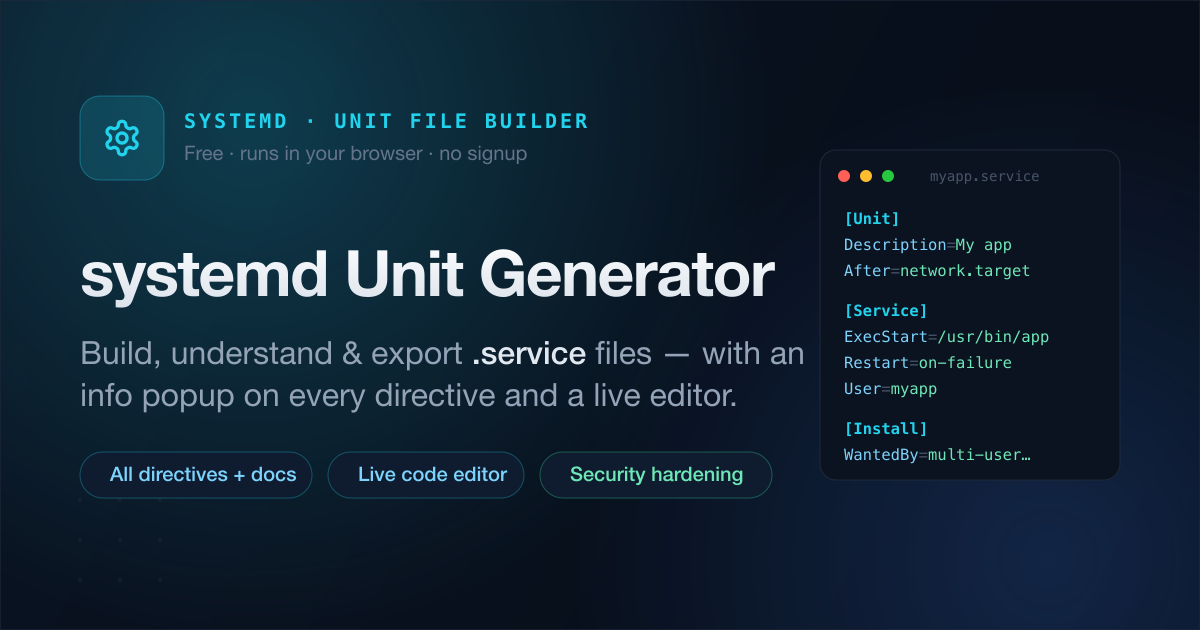
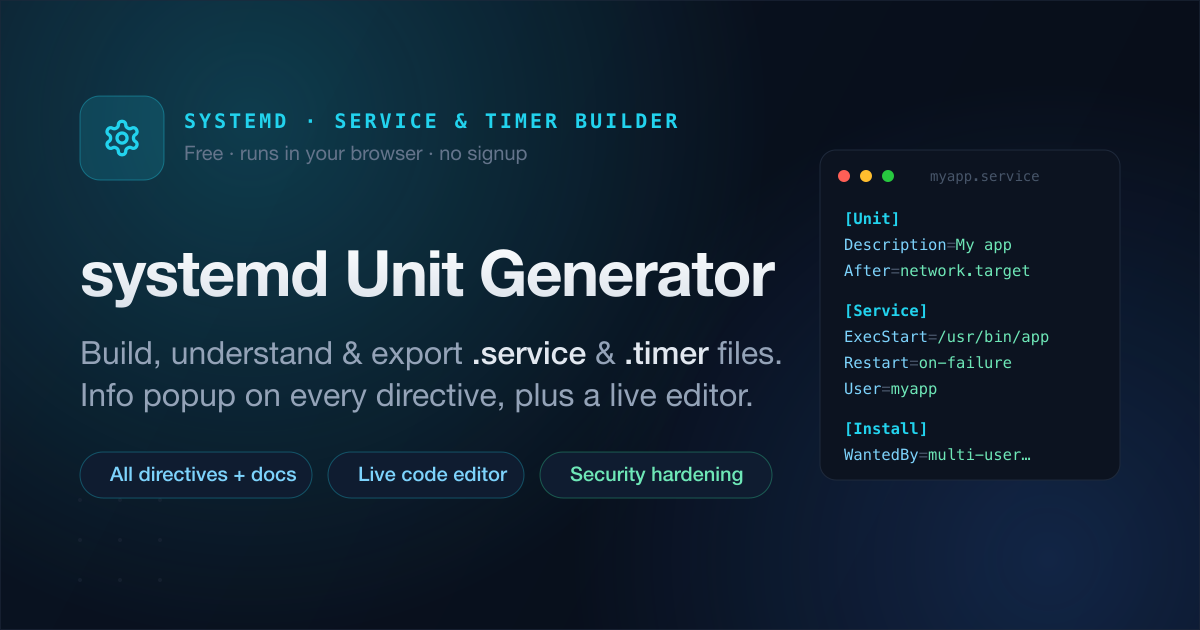
fix: repair changelog release step, refresh OG image, allow CF beacon in CSP
- ci: use --latest with --prepend (git-cliff requires -l or -u)
- docs: regenerate og-image.png for .service & .timer, re-wrap subtitle
- csp: allow static.cloudflareinsights.com / cloudflareinsights.com and
  regenerate nginx security headers with the current script hash

Changed region(s): [[0.0617, 0.5429, 0.6783, 0.6635], [0.2775, 0.181, 0.5858, 0.2111]]

diff --git a/svelte.config.js b/svelte.config.js
@@ -23,11 +23,11 @@ const config = {
       mode: "auto",
       directives: {
         "default-src": ["self"],
-        "script-src": ["self", umamiOrigin],
+        "script-src": ["self", umamiOrigin, "https://static.cloudflareinsights.com"],
         "style-src": ["self", "unsafe-inline"],
         "font-src": ["self"],
         "img-src": ["self", "data:"],
-        "connect-src": ["self", umamiOrigin],
+        "connect-src": ["self", umamiOrigin, "https://cloudflareinsights.com"],
         "frame-ancestors": ["self"],
         "base-uri": ["self"],
         "form-action": ["self"],
